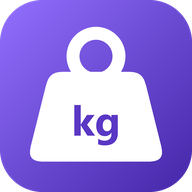
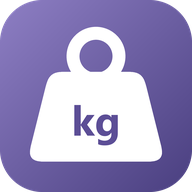
0.1.9: спокійніша гама — приглушений лавандовий замість яскравого фіолетового; іконка в тон

diff --git a/css/app.css b/css/app.css
@@ -7,15 +7,15 @@
   --line-soft: #292433;
   --text: #eeebf3;
   --muted: #9d96a8;
-  --accent: #7c5cf0;
-  --accent-2: #a48bff;
+  --accent: #7d6bb8;
+  --accent-2: #a99cd6;
   --accent-soft: color-mix(in srgb, var(--accent) 16%, transparent);
   --good: #4cc38a;
   --bad: #e2725b;
   --warn: #dbad3a;
   /* серії графіка: середнє — акцент, план — рожевий, точки зважувань — нейтральні */
   --c-avg: var(--accent-2);
-  --c-plan: #f28cb8;
+  --c-plan: #d99ab5;
   --c-kg: #b7c2ca;
   --c-ring: #e8b04a;
   --c-waist: #6fb5e8;
@@ -35,12 +35,12 @@
   --line-soft: #e8e4ee;
   --text: #1c1726;
   --muted: #686175;
-  --accent: #6a45d8;
-  --accent-2: #5a37c4;
+  --accent: #63559e;
+  --accent-2: #54478c;
   --good: #1f8a55;
   --bad: #c2462d;
-  --c-avg: #6a45d8;
-  --c-plan: #c2457f;
+  --c-avg: #63559e;
+  --c-plan: #a8577c;
   --c-kg: #7c8890;
   --c-ring: #b8790f;
   --c-waist: #2b7fc0;
@@ -677,5 +677,5 @@ button.row { cursor: pointer; }
   box-shadow: 0 10px 24px rgb(0 0 0 / .35);
   animation: toast-in .18s ease;
 }
-.toast button { border: 0; background: none; color: #c3b2ff; font-weight: 800; cursor: pointer; padding: 4px 8px; }
+.toast button { border: 0; background: none; color: #c6bde6; font-weight: 800; cursor: pointer; padding: 4px 8px; }
 @keyframes toast-in { from { opacity: 0; transform: translateY(8px); } }

diff --git a/version.js b/version.js
@@ -1,2 +1,2 @@
 // Підняти при кожному релізі: від цього залежить оновлення кешу service worker.
-self.APP_VERSION = '0.1.8';
+self.APP_VERSION = '0.1.9';
